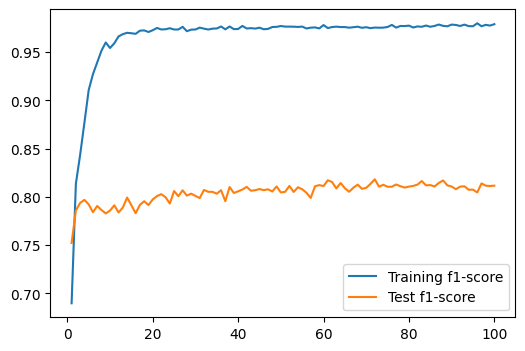
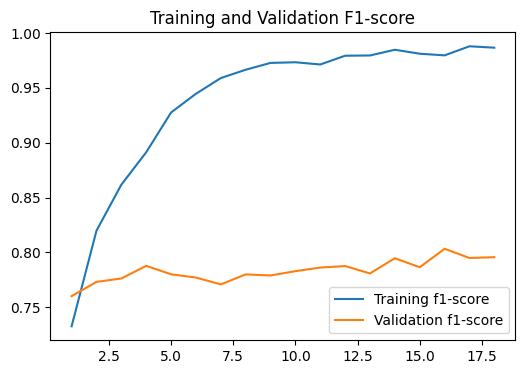
minor markdown updates, and change plot

diff --git a/README.md b/README.md
@@ -119,7 +119,9 @@ fc.bias torch.Size([8])                     : 8
 Total parameters                            : 725,408
 ```
 
-During each training epoch, we printed the f1 scores, and the loss for both the training and development set. A plot is shown which plot the f1 score at each training epoch.
+During each training epoch, we printed the f1 scores, and the loss for both the training and development set. This is shown in the report.
+
+The image (f1_score_vs_epoch.png) shows the plot of the f1 score (training and development) at each training epoch.
 
 A sample question is chosen from the test set (eng.trainb) which we pass through the model to predict the NER tags.
 
